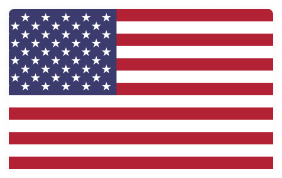
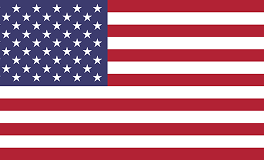
Added a new styles and nwe images flags

diff --git a/assets/styles/style.css b/assets/styles/style.css
@@ -117,8 +117,10 @@ body {
 }
 
 .container {
-    max-width: 1279px;
+    max-width: 1400px;
     margin: 0 auto;
+    padding-right: 80px;
+    padding-left: 80px;
 }
 
 header {
@@ -241,4 +243,21 @@ header {
 
 .countries__flag {
 	width: 100%;
+	height: 160px;
+	object-fit: none;
+}
+
+@media(max-width:1300px) {
+  .countries__cards {
+    grid-template-columns: repeat(3, 1fr);
+  }
+  .countries__flag {
+    width: 100%;
+    height: unset;
+    object-fit: cover;
+  }
+  .container {
+    padding-right: 84px;
+    padding-left: 84px;
+  }
 }
